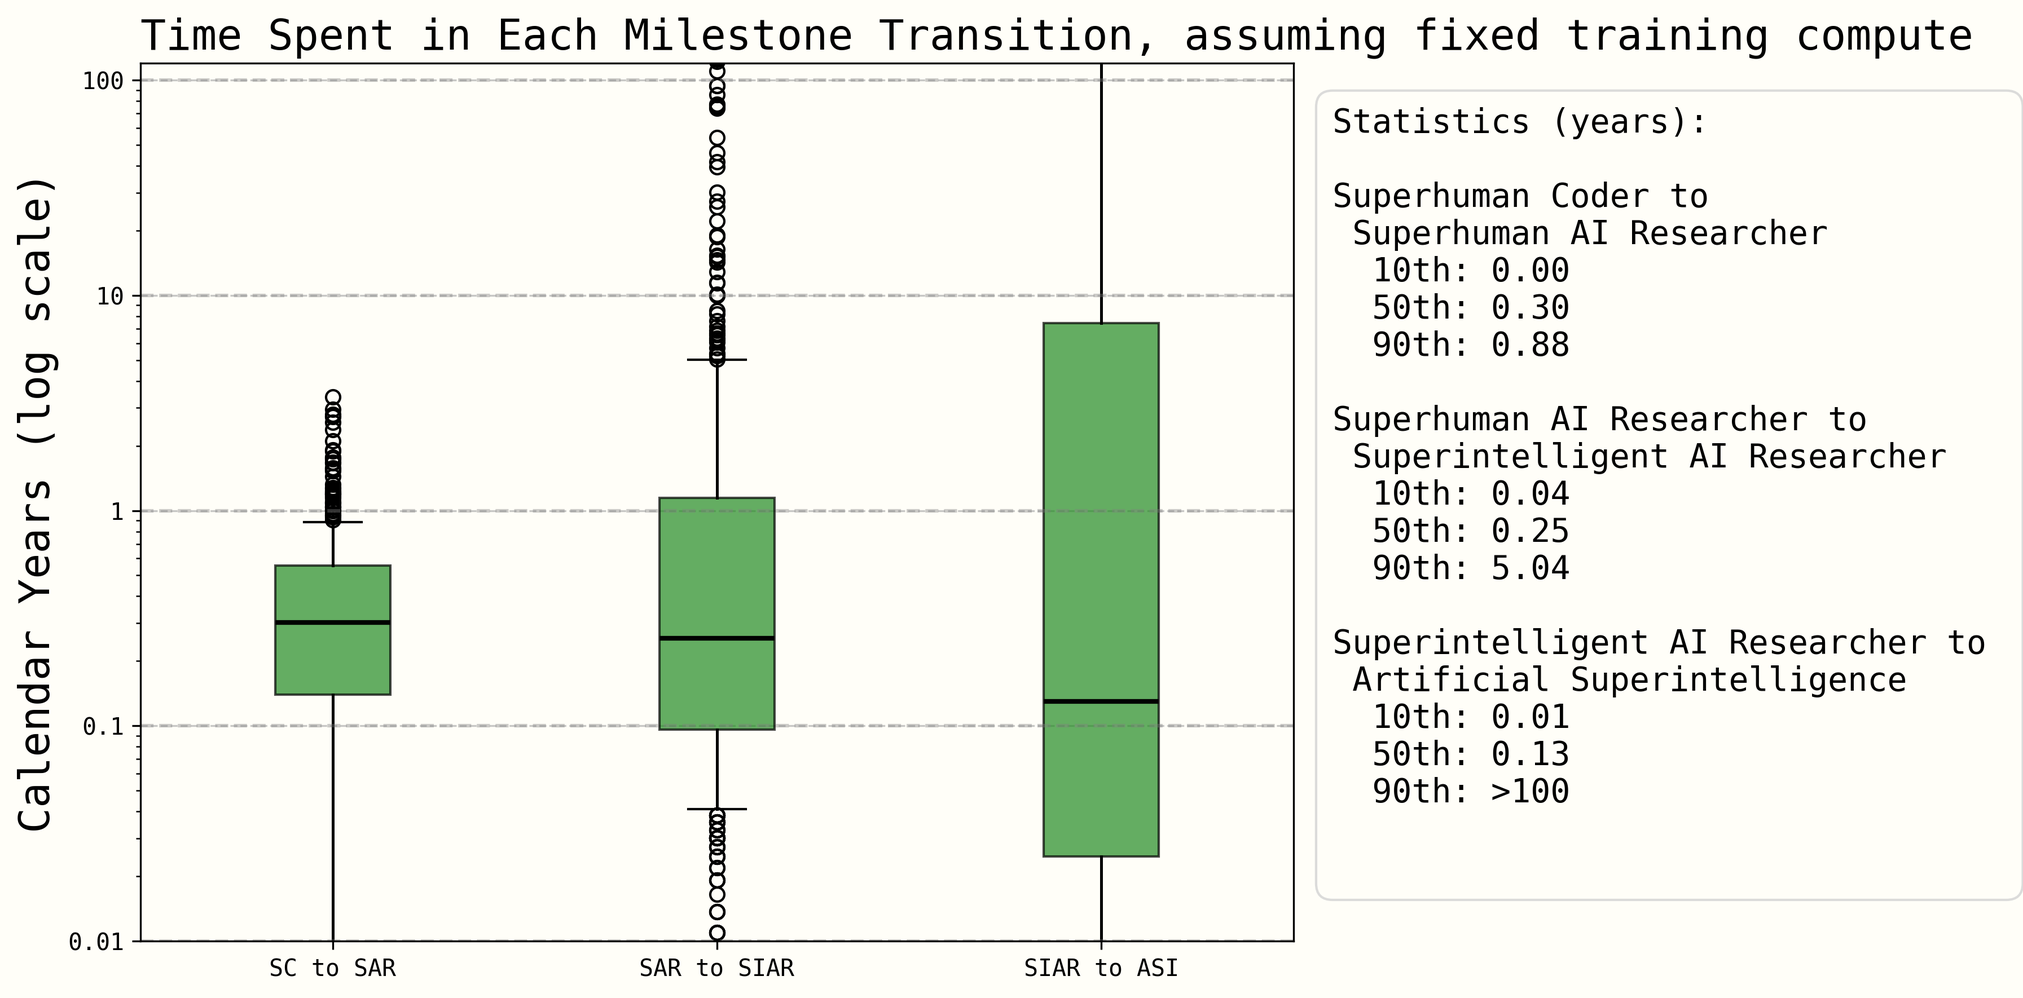
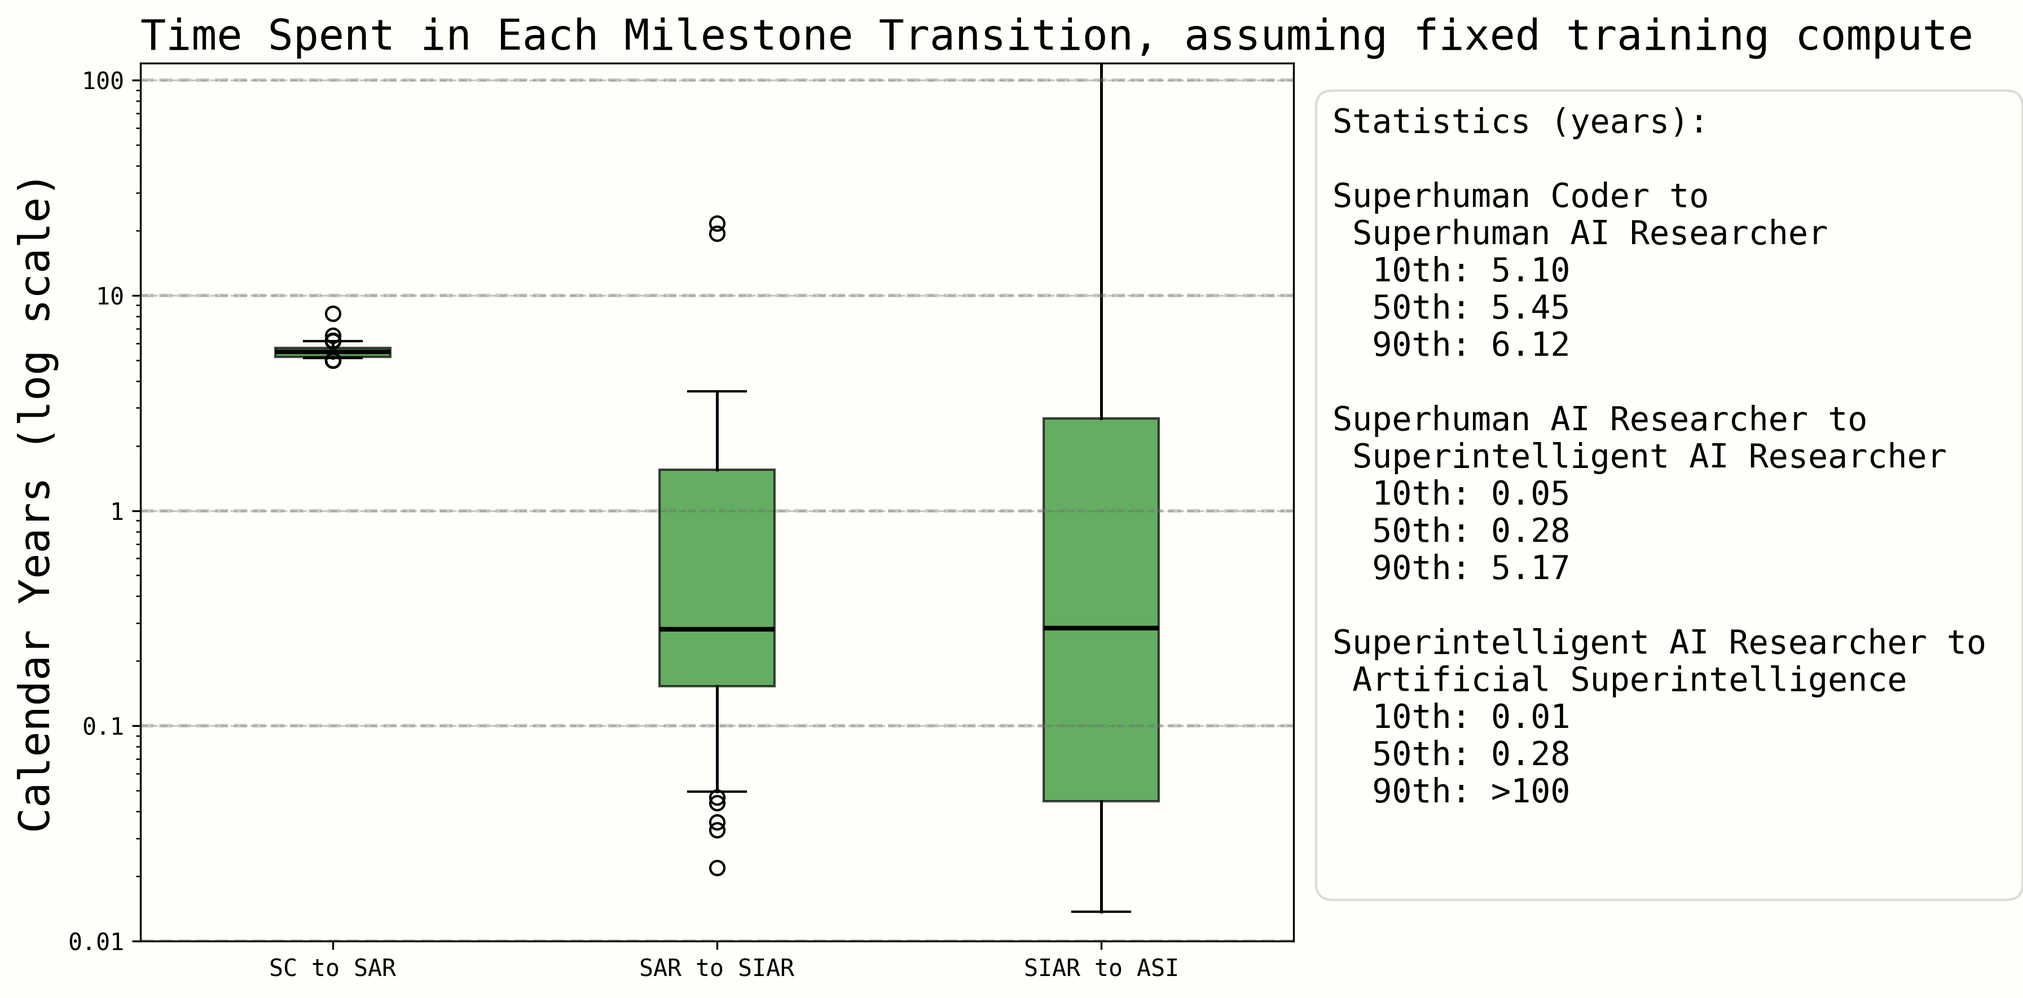
partially implemented changes

diff --git a/takeoff/forecasting_takeoff.py b/takeoff/forecasting_takeoff.py
@@ -57,6 +57,18 @@ def get_project_progress_samples(config: dict, n_sims: int) -> dict:
     
     return project_samples
 
+def get_project_starting_positions(config: dict) -> dict:
+    """Extract starting positions for each project from config."""
+    starting_positions = {}
+    
+    for project_name, params in config["projects"].items():
+        if isinstance(params, dict) and "starting_position" in params:
+            starting_positions[project_name] = params["starting_position"]
+        else:
+            starting_positions[project_name] = 0.0  # Default to starting at beginning
+    
+    return starting_positions
+
 def get_milestone_samples(config: dict, n_sims: int, correlation: float = 0.7) -> dict:
     """Generate samples for milestone timings and speeds with correlation between gap sizes."""
     samples = {}
@@ -148,6 +160,10 @@ def get_milestone_samples(config: dict, n_sims: int, correlation: float = 0.7) -
             is_nonzero = np.random.random(n_sims) >= p_zero
             values[~is_nonzero] = 0
             
+        elif milestone_pair == "PRESENT_DAY to SC":
+            # Fixed 5-year gap (the baseline journey to SC)
+            values = np.full(n_sims, 5.0)  # Always 5 years from present day to SC
+            
         else:
             # Standard handling for other transitions
             is_nonzero = np.random.random(n_sims) >= p_zero
@@ -202,16 +218,52 @@ def run_phase_simulation(gap: float, start_speed: float, end_speed: float, progr
     
     return calendar_time
 
-def run_single_simulation_with_tracking(samples: dict, sim_idx: int, progress_rate: float = 1.0) -> tuple[list[datetime], list[float]]:
-    """Run a single simulation and track both milestone dates and phase durations."""
+def run_single_simulation_with_tracking(samples: dict, sim_idx: int, progress_rate: float = 1.0, starting_position: float = 0.0) -> tuple[list[datetime], list[float]]:
+    """Run a single simulation and track both milestone dates and phase durations.
+    
+    Args:
+        samples: Dictionary containing milestone samples
+        sim_idx: Simulation index
+        progress_rate: Rate at which this actor makes progress (1.0 = normal)
+        starting_position: How many years of progress toward SC have already been completed
+    """
     milestone_dates = []
     phase_calendar_days = []
     current_date = samples["start_time"]
     
-    # List of milestones in order
+    # List of milestones in order (start from present day, work toward SC)
     milestones = ["SC", "SAR", "SIAR", "ASI"] # "WS"
     
-    # Run through each milestone gap
+    # First, handle the journey from PRESENT_DAY to SC
+    if "PRESENT_DAY to SC" in samples["time_gaps"]:
+        base_gap_to_sc = samples["time_gaps"]["PRESENT_DAY to SC"][sim_idx]
+        remaining_gap_to_sc = max(0, base_gap_to_sc - starting_position * 365)  # Convert starting_position to days
+        
+        if remaining_gap_to_sc > 0:
+            # Still need to complete journey to SC
+            # Use speedup from PRESENT_DAY (1.02) to SC (5)
+            present_day_speed = samples["speeds"].get("PRESENT_DAY", 1.02)
+            sc_speed = samples["speeds"]["SC"]
+            if isinstance(sc_speed, np.ndarray):
+                sc_speed = sc_speed[sim_idx]
+            
+            calendar_days = run_phase_simulation(remaining_gap_to_sc, present_day_speed, sc_speed, progress_rate, "PRESENT_DAY to SC")
+            phase_calendar_days.append(calendar_days)
+            
+            try:
+                current_date = current_date + pd.Timedelta(days=calendar_days)
+                if current_date.year > 9999:
+                    current_date = datetime(9999, 12, 31)
+            except (OverflowError, pd.errors.OutOfBoundsTimedelta):
+                current_date = datetime(9999, 12, 31)
+            
+            milestone_dates.append(current_date)  # This is when SC is reached
+        else:
+            # Already at SC, no time needed
+            milestone_dates.append(current_date)
+            phase_calendar_days.append(0)
+    
+    # Run through each remaining milestone gap
     for i, milestone in enumerate(milestones[:-1]):
         next_milestone = milestones[i + 1]
         milestone_pair = f"{milestone} to {next_milestone}"
@@ -254,13 +306,14 @@ def run_single_simulation(samples: dict, sim_idx: int, progress_rate: float = 1.
     milestone_dates, _ = run_single_simulation_with_tracking(samples, sim_idx, progress_rate)
     return milestone_dates
 
-def run_multi_project_simulation_with_tracking(samples: dict, sim_idx: int, project_progress_samples: dict) -> tuple[dict, list[datetime], dict]:
+def run_multi_project_simulation_with_tracking(samples: dict, sim_idx: int, project_progress_samples: dict, project_starting_positions: dict) -> tuple[dict, list[datetime], dict]:
     """Run multi-project simulation with detailed tracking.
     
     Args:
         samples: Milestone timing samples
         sim_idx: Simulation index
         project_progress_samples: Dictionary mapping project names to arrays of progress rate samples
+        project_starting_positions: Dictionary mapping project names to starting positions (in years)
     
     Returns:
         Tuple of (project_results, first_milestone_dates, project_phase_durations)
@@ -271,12 +324,16 @@ def run_multi_project_simulation_with_tracking(samples: dict, sim_idx: int, proj
     # Run simulation for each project with tracking
     for project_name, progress_rate_samples in project_progress_samples.items():
         progress_rate = progress_rate_samples[sim_idx]  # Get rate for this simulation
-        milestone_dates, phase_durations = run_single_simulation_with_tracking(samples, sim_idx, progress_rate)
+        starting_position = project_starting_positions.get(project_name, 0.0)
+        
+        # Use the original samples (don't adjust start time)
+        # Starting position will be handled inside the simulation
+        milestone_dates, phase_durations = run_single_simulation_with_tracking(samples, sim_idx, progress_rate, starting_position)
         project_results[project_name] = milestone_dates
         project_phase_durations[project_name] = phase_durations
     
     # Find first achievement of each milestone across all projects
-    milestones = ["SAR", "SIAR", "ASI"]
+    milestones = ["SC", "SAR", "SIAR", "ASI"]  # These correspond to indices 0, 1, 2, 3 in milestone_dates
     first_milestone_dates = []
     
     for milestone_idx in range(len(milestones)):
@@ -339,6 +396,9 @@ def create_milestone_timeline_plot(all_milestone_dates: list[list[datetime]], co
     fig = plt.figure(figsize=(12, 6), dpi=150, facecolor=bg_rgb)
     ax = fig.add_subplot(111)
     ax.set_facecolor(bg_rgb)
+    
+    # Initialize stats text
+    stats_text = ""
     
     # Plot distribution for each milestone
     for i, milestone in enumerate(milestones):
@@ -636,11 +696,10 @@ def create_multi_project_timeline_plot(all_first_milestone_dates: list[list[date
     for proj_idx, project_name in enumerate(projects):
         project_sar_times = []
         for sim_results in all_project_results:
-            if project_name in sim_results and len(sim_results[project_name]) > 0:
-                sar_date = sim_results[project_name][0]  # SAR is first milestone
-                sar_year = sar_date.year + sar_date.timetuple().tm_yday/365
-                if sar_year < 2100:  # Filter out capped values
-                    project_sar_times.append(sar_year)
+            if project_name in sim_results and len(sim_results[project_name]) > 1:
+                sar_date = sim_results[project_name][1]  # SAR is now index 1 (SC=0, SAR=1)
+                if sar_date.year < 9999:  # Filter out capped values
+                    project_sar_times.append(sar_date.year + sar_date.timetuple().tm_yday/365)
         
         if project_sar_times and len(project_sar_times) > 10:  # Need enough data for KDE
             # Calculate percentiles for stats
@@ -660,9 +719,20 @@ def create_multi_project_timeline_plot(all_first_milestone_dates: list[list[date
             # Filter data to visible range for KDE
             visible_data = [x for x in project_sar_times if start_year <= x <= MAX_GRAPH_YEAR]
             if visible_data:
-                # Calculate KDE on visible data
+                # Calculate KDE on visible data using same approach as multi-project plot
                 try:
-                    kde = gaussian_kde(visible_data)
+                    # Special case: if most delays are 0, add small jitter for visualization
+                    if len([d for d in visible_data if d == 0]) > len(visible_data) * 0.5:
+                        # Add tiny random jitter to zero values for visualization
+                        jittered_data = []
+                        for d in visible_data:
+                            if d == 0:
+                                jittered_data.append(d + np.random.normal(0, 0.01))  # Small jitter
+                            else:
+                                jittered_data.append(d)
+                        kde = gaussian_kde(jittered_data)
+                    else:
+                        kde = gaussian_kde(visible_data)
                     
                     # Create x range for plotting
                     x_range = np.linspace(start_year, MAX_GRAPH_YEAR, 1000)
@@ -761,7 +831,7 @@ def create_multi_project_timeline_plot(all_first_milestone_dates: list[list[date
 
     return fig
 
-def create_project_delay_plot(all_project_results: list[dict], config: dict, plotting_style: dict, fonts: dict) -> plt.Figure:
+def create_project_delay_plot(all_project_results: list[dict], config: dict, plotting_style: dict, fonts: dict, project_progress_samples: dict = None) -> plt.Figure:
     """Create plot showing the delay between each project's SAR achievement and the leading project's SAR achievement.
     
     Args:
@@ -769,6 +839,7 @@ def create_project_delay_plot(all_project_results: list[dict], config: dict, plo
         config: Configuration dictionary
         plotting_style: Plotting style configuration
         fonts: Font configuration
+        project_progress_samples: Dictionary mapping project names to arrays of progress rate samples
     """
     # Get background color
     background_color = "#FFFEF8"
@@ -779,8 +850,8 @@ def create_project_delay_plot(all_project_results: list[dict], config: dict, plo
     ax.set_facecolor(bg_rgb)
     
     projects = list(config["projects"].keys())
-    # Exclude Leading Lab from delay plot since it always has 0 delay
-    projects_for_delay = [p for p in projects if p != "Leading Lab"]
+    # Include all projects in delay plot since any project could win
+    projects_for_delay = projects
     project_colors = plt.cm.Set3(np.linspace(0, 1, len(projects_for_delay)))
     
     # Calculate delays for each simulation
@@ -792,8 +863,8 @@ def create_project_delay_plot(all_project_results: list[dict], config: dict, plo
         valid_projects = {}
         
         for project_name in projects:
-            if project_name in sim_results and len(sim_results[project_name]) > 0:
-                sar_date = sim_results[project_name][0]  # SAR is first milestone
+            if project_name in sim_results and len(sim_results[project_name]) > 1:
+                sar_date = sim_results[project_name][1]  # SAR is now index 1 (SC=0, SAR=1)
                 if sar_date.year < 9999:  # Filter out capped values
                     valid_projects[project_name] = sar_date
                     if earliest_sar_date is None or sar_date < earliest_sar_date:
@@ -807,12 +878,54 @@ def create_project_delay_plot(all_project_results: list[dict], config: dict, plo
                     delay_years = delay_days / 365.0
                     project_delays[project_name].append(delay_years)
     
+    # Debug: Print delay statistics
+    print(f"\nDelay Statistics:")
+    for project_name in projects_for_delay:
+        delays = project_delays[project_name]
+        if delays:
+            print(f"{project_name}: min={min(delays):.2f}, max={max(delays):.2f}, mean={np.mean(delays):.2f}, count={len(delays)}")
+        else:
+            print(f"{project_name}: No delay data")
+    
+    # Debug: Check a few example simulations to see what's happening
+    print(f"\nExample simulation details (first 3 simulations):")
+    for sim_idx in range(min(3, len(all_project_results))):
+        print(f"\nSimulation {sim_idx}:")
+        sim_results = all_project_results[sim_idx]
+        
+        # Get progress rates for this simulation
+        print("  Progress rates:")
+        for project_name in projects:
+            if project_name in project_progress_samples:
+                rate = project_progress_samples[project_name][sim_idx]
+                print(f"    {project_name}: {rate:.3f}x")
+        
+        # Get SAR achievement dates
+        print("  SAR achievement dates:")
+        sar_dates = {}
+        for project_name in projects:
+            if project_name in sim_results and len(sim_results[project_name]) > 1:
+                sar_date = sim_results[project_name][1]
+                sar_dates[project_name] = sar_date
+                sar_year = sar_date.year + sar_date.timetuple().tm_yday/365
+                print(f"    {project_name}: {sar_year:.2f}")
+        
+        # Show winner and delays
+        if sar_dates:
+            earliest_date = min(sar_dates.values())
+            winner = [name for name, date in sar_dates.items() if date == earliest_date][0]
+            print(f"  Winner: {winner}")
+            print("  Delays:")
+            for project_name, date in sar_dates.items():
+                delay_years = (date - earliest_date).days / 365.0
+                print(f"    {project_name}: {delay_years:.3f} years")
+    
     # Plot delay distributions for each project
     stats_text = ""
     for proj_idx, project_name in enumerate(projects_for_delay):
         delays = project_delays[project_name]
         
-        if delays and len(delays) > 10:  # Need enough data for KDE
+        if delays and len(delays) > 1:  # Need enough data for KDE
             # Calculate percentiles for stats
             p10 = np.percentile(delays, 10)
             p50 = np.percentile(delays, 50)
@@ -820,15 +933,27 @@ def create_project_delay_plot(all_project_results: list[dict], config: dict, plo
             
             # Determine appropriate x-axis range based on the data
             max_delay_in_data = max(delays)
-            MAX_DELAY = min(max(5, max_delay_in_data * 1.1), 20)  # Adaptive range, cap at 20 years
+            # For small delays, ensure minimum visible range of 2 years
+            MAX_DELAY = max(2.0, min(max(5, max_delay_in_data * 1.2), 20))  # Ensure at least 2 years range
             
-            # Filter data to reasonable range for visualization
-            visible_data = [x for x in delays if 0 <= x <= MAX_DELAY]
+            # Filter data to reasonable range for visualization (include all data since delays are small)
+            visible_data = delays  # Don't filter small delays out
             
-            if visible_data:
+            if visible_data and len(visible_data) > 1:
                 # Calculate KDE on visible data using same approach as multi-project plot
                 try:
-                    kde = gaussian_kde(visible_data)
+                    # Special case: if most delays are 0, add small jitter for visualization
+                    if len([d for d in visible_data if d == 0]) > len(visible_data) * 0.5:
+                        # Add tiny random jitter to zero values for visualization
+                        jittered_data = []
+                        for d in visible_data:
+                            if d == 0:
+                                jittered_data.append(d + np.random.normal(0, 0.01))  # Small jitter
+                            else:
+                                jittered_data.append(d)
+                        kde = gaussian_kde(jittered_data)
+                    else:
+                        kde = gaussian_kde(visible_data)
                     
                     # Create x range for plotting (same resolution as multi-project plot)
                     x_range = np.linspace(0, MAX_DELAY, 1000)
@@ -899,9 +1024,10 @@ def create_project_delay_plot(all_project_results: list[dict], config: dict, plo
     all_delays = [delay for delays in project_delays.values() for delay in delays]
     if all_delays:
         data_max = np.percentile(all_delays, 95)  # Use 95th percentile to avoid outliers
-        final_xlim = min(max(3, data_max * 1.2), 15)  # Reasonable range
+        # For small delays, ensure minimum visible range of 2 years
+        final_xlim = max(2.0, min(max(3, data_max * 1.3), 15))  # Reasonable range with minimum
     else:
-        final_xlim = 10
+        final_xlim = 5
     
     # Add stats text
     text = ax.text(0.68, 1, stats_text,
@@ -1038,13 +1164,17 @@ def run_multi_project_takeoff_simulation(config_path: str = "takeoff_params.yaml
     print("\nGenerating project progress rate samples...")
     project_progress_samples = get_project_progress_samples(config, config["simulation"]["n_sims"])
     
-    # Print statistics for progress rates
-    print("Project progress rate distributions:")
+    # Get project starting positions
+    project_starting_positions = get_project_starting_positions(config)
+    
+    # Print statistics for progress rates and starting positions
+    print("Project configurations:")
     for project_name, samples in project_progress_samples.items():
         p10 = np.percentile(samples, 10)
         p50 = np.percentile(samples, 50)
         p90 = np.percentile(samples, 90)
-        print(f"  {project_name}: 10th={p10:.2f}x, 50th={p50:.2f}x, 90th={p90:.2f}x")
+        starting_pos = project_starting_positions.get(project_name, 0.0)
+        print(f"  {project_name}: progress rates 10th={p10:.2f}x, 50th={p50:.2f}x, 90th={p90:.2f}x, starting position={starting_pos:.1f} years")
     
     # Set up fonts
     fonts = setup_plotting_style(plotting_style)
@@ -1060,14 +1190,14 @@ def run_multi_project_takeoff_simulation(config_path: str = "takeoff_params.yaml
     all_project_phase_durations = []
     
     for i in tqdm(range(config["simulation"]["n_sims"]), desc="Simulations"):
-        project_results, first_milestone_dates, project_phase_durations = run_multi_project_simulation_with_tracking(samples, i, project_progress_samples)
+        project_results, first_milestone_dates, project_phase_durations = run_multi_project_simulation_with_tracking(samples, i, project_progress_samples, project_starting_positions)
         all_first_milestone_dates.append(first_milestone_dates)
         all_project_results.append(project_results)
         all_project_phase_durations.append(project_phase_durations)
     
     # Print summary statistics
     print("\nFirst-to-achieve milestone statistics:")
-    milestones = ["SAR", "SIAR", "ASI"]
+    milestones = ["SC", "SAR", "SIAR", "ASI"]
     for i, milestone in enumerate(milestones):
         milestone_years = [dates[i].year + dates[i].timetuple().tm_yday/365 
                           for dates in all_first_milestone_dates 
@@ -1081,13 +1211,46 @@ def run_multi_project_takeoff_simulation(config_path: str = "takeoff_params.yaml
         else:
             print(f"{milestone}: No valid data")
     
+    # Analysis: Check which project wins SAR most often
+    print("\nSAR Winner Analysis:")
+    sar_winners = {}
+    projects = list(config["projects"].keys())
+    
+    for sim_idx, sim_results in enumerate(all_project_results):
+        earliest_sar_date = None
+        winner = None
+        
+        for project_name in projects:
+            if project_name in sim_results and len(sim_results[project_name]) > 1:
+                sar_date = sim_results[project_name][1]  # SAR is now index 1 (SC=0, SAR=1)
+                if sar_date.year < 9999:  # Filter out capped values
+                    if earliest_sar_date is None or sar_date < earliest_sar_date:
+                        earliest_sar_date = sar_date
+                        winner = project_name
+        
+        if winner:
+            sar_winners[winner] = sar_winners.get(winner, 0) + 1
+    
+    total_wins = sum(sar_winners.values())
+    print(f"Total valid simulations: {total_wins}")
+    for project, wins in sorted(sar_winners.items(), key=lambda x: x[1], reverse=True):
+        percentage = (wins / total_wins) * 100 if total_wins > 0 else 0
+        print(f"  {project}: {wins} wins ({percentage:.1f}%)")
+    
+    leading_lab_always_wins = sar_winners.get("Leading Lab", 0) == total_wins
+    print(f"\nDoes Leading Lab always win SAR? {leading_lab_always_wins}")
+    if not leading_lab_always_wins:
+        print("-> Other projects sometimes beat Leading Lab!")
+    else:
+        print("-> Leading Lab wins every time")
+    
     # Create plots
     print("\nGenerating plots...")
     fig_multi_timeline = create_multi_project_timeline_plot(all_first_milestone_dates, all_project_results, config, plotting_style, fonts)
-    fig_project_delays = create_project_delay_plot(all_project_results, config, plotting_style, fonts)
+    fig_project_delays = create_project_delay_plot(all_project_results, config, plotting_style, fonts, project_progress_samples)
     
     # Also create single-project plots for the fastest project (for comparison)
-    fastest_project = min(project_progress_samples.keys(), key=lambda x: 1/project_progress_samples[x])  # Highest progress rate
+    fastest_project = min(project_progress_samples.keys(), key=lambda x: 1/np.mean(project_progress_samples[x]))  # Highest mean progress rate
     fastest_milestone_dates = [results[fastest_project] for results in all_project_results]
     fig_fastest_timeline = create_milestone_timeline_plot(fastest_milestone_dates, config, plotting_style, fonts)
     fig_fastest_phases = create_phase_duration_plot(fastest_milestone_dates, config, plotting_style, fonts)
